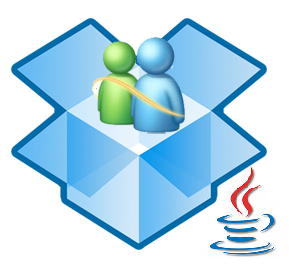
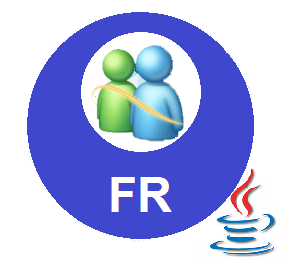
Renamed program.

diff --git a/src/GUI/MSNView.java b/src/GUI/MSNView.java
@@ -129,7 +129,8 @@ public class MSNView extends javax.swing.JFrame {
      * Enables or disables copying, pasting and removing buttons.
      */
     private void enableCopyButtons(){
-        if(getSelectedMessages().isEmpty()){
+        /*---TMP--*/
+        /*if(getSelectedMessages().isEmpty()){
             BtCopy.setEnabled(false);
             BtRemove.setEnabled(false);
         }
@@ -138,7 +139,7 @@ public class MSNView extends javax.swing.JFrame {
             BtRemove.setEnabled(true);
         }
         BtPaste.setEnabled(clipboard != null);
-        repaint();
+        repaint();*/
     }
     
     /**
@@ -162,6 +163,12 @@ public class MSNView extends javax.swing.JFrame {
                 System.exit(0);
             }
         });
+        
+        /* --TMP */ 
+        this.BtSettings.setEnabled(false);
+        this.BtCopy.setEnabled(false);
+        this.BtPaste.setEnabled(false);
+        this.BtRemove.setEnabled(false);
                 
         
         //--- SETTINGS INITIALIZE ---//
@@ -172,6 +179,8 @@ public class MSNView extends javax.swing.JFrame {
         clipboard = null;
         
         enableCopyButtons();
+        
+        this.setTitle(Data.Txt.PROGRAM_NAME);
     }
 
     /**

diff --git a/src/Data/Txt.java b/src/Data/Txt.java
@@ -47,6 +47,10 @@ public class Txt {
     ;
     
     /**
+     * Program's name
+     */
+    public static final String PROGRAM_NAME = "FR MSN";
+    /**
      * Author's string.
      */
     public static final String AUTHOR = "Juan Luis Suárez Díaz";
@@ -54,7 +58,7 @@ public class Txt {
     /**
      * Version's string.
      */
-    public static final String VERSION = "v2.0";
+    public static final String VERSION = "v3.0";
     
     /**
      * Copyright's string.
@@ -64,11 +68,10 @@ public class Txt {
     /**
      * Edition's string.
      */
-    public static final String EDITION = "Dropbox MSN Ultimate Java Edition";
+    public static final String EDITION = "";//"Dropbox MSN Ultimate Java Edition";
     
     /**
      * String with program info.
      */
-    public static final String PROGRAM_INFO = "¿Buscas un servicio de mensajería divertido, eficaz y sencillo?\n"+
-            "Con el nuevo Dropbox MSN, tendrás eso y mucho más.\nInvita a tus amigos, introduce un nombre, ¡y empieza a chatear!";
+    public static final String PROGRAM_INFO = "";
 }

diff --git a/src/GUI/MSNIntro.java b/src/GUI/MSNIntro.java
@@ -41,6 +41,11 @@ public class MSNIntro extends javax.swing.JDialog {
                 System.exit(0);
             }
         });
+        //--TMP--//
+        this.labelAuthor.setVisible(false);
+        
+        this.setTitle(Data.Txt.PROGRAM_NAME);
+        this.labelWelcome.setText("BIENVENIDO A "+Data.Txt.PROGRAM_NAME);
     }
 
     /**

diff --git a/src/Model/MessageKind.java b/src/Model/MessageKind.java
@@ -11,6 +11,6 @@ package Model;
  * @author Juan Luis
  */
 public enum MessageKind {
-    HELO,LOGIN,SEND,CHANGEPRIVATE,CHANGESELECT,CHANGESTATE,DISCONNECT,RECONNECT,IMALIVE,OK,ERR,BYE,
+    HELO,LOGIN,SEND,CHANGEPRIVATE,CHANGESELECT,CHANGESTATE,IMALIVE,OK,ERR,BYE,
     RECEIVEMSG,RECEIVEUSR,LOGOUT,CONFIRMPRV,CONFIRMSLCT,CONFIRMSTATE;
 }

diff --git a/src/GUI/SettingsView.java b/src/GUI/SettingsView.java
@@ -46,6 +46,7 @@ public class SettingsView extends javax.swing.JDialog {
                 dispose();
             }
         });
+        this.setTitle(Data.Txt.PROGRAM_NAME+ " (Settings)");
     }
 
     /**

diff --git a/src/Model/Client.java b/src/Model/Client.java
@@ -1,7 +1,5 @@
 /*
- * Author: Juan Luis Suárez Díaz
- * July, 2015
- * Music Player
+
  */
 package Model;
 

diff --git a/src/Model/ClientController.java b/src/Model/ClientController.java
@@ -1,7 +1,5 @@
 /*
- * Author: Juan Luis Suárez Díaz
- * July, 2015
- * Music Player
+
  */
 package Model;
 

diff --git a/src/Model/ProcesadorMSN.java b/src/Model/ProcesadorMSN.java
@@ -1,7 +1,5 @@
 /*
- * Author: Juan Luis Suárez Díaz
- * July, 2015
- * Music Player
+
  */
 package Model;
 

diff --git a/src/Model/Server.java b/src/Model/Server.java
@@ -1,7 +1,5 @@
 /*
- * Author: Juan Luis Suárez Díaz
- * July, 2015
- * Music Player
+
  */
 package Model;
 

diff --git a/src/Model/ServerData.java b/src/Model/ServerData.java
@@ -1,7 +1,5 @@
 /*
- * Author: Juan Luis Suárez Díaz
- * July, 2015
- * Music Player
+
  */
 package Model;
 
